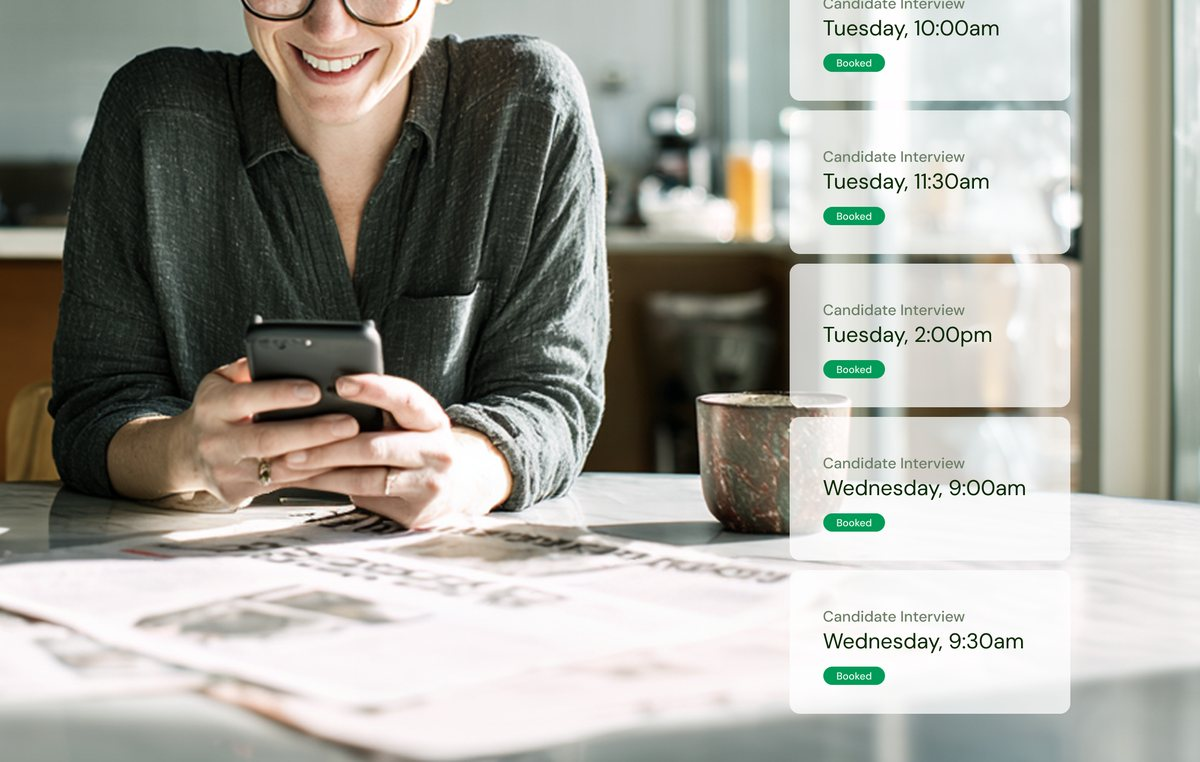
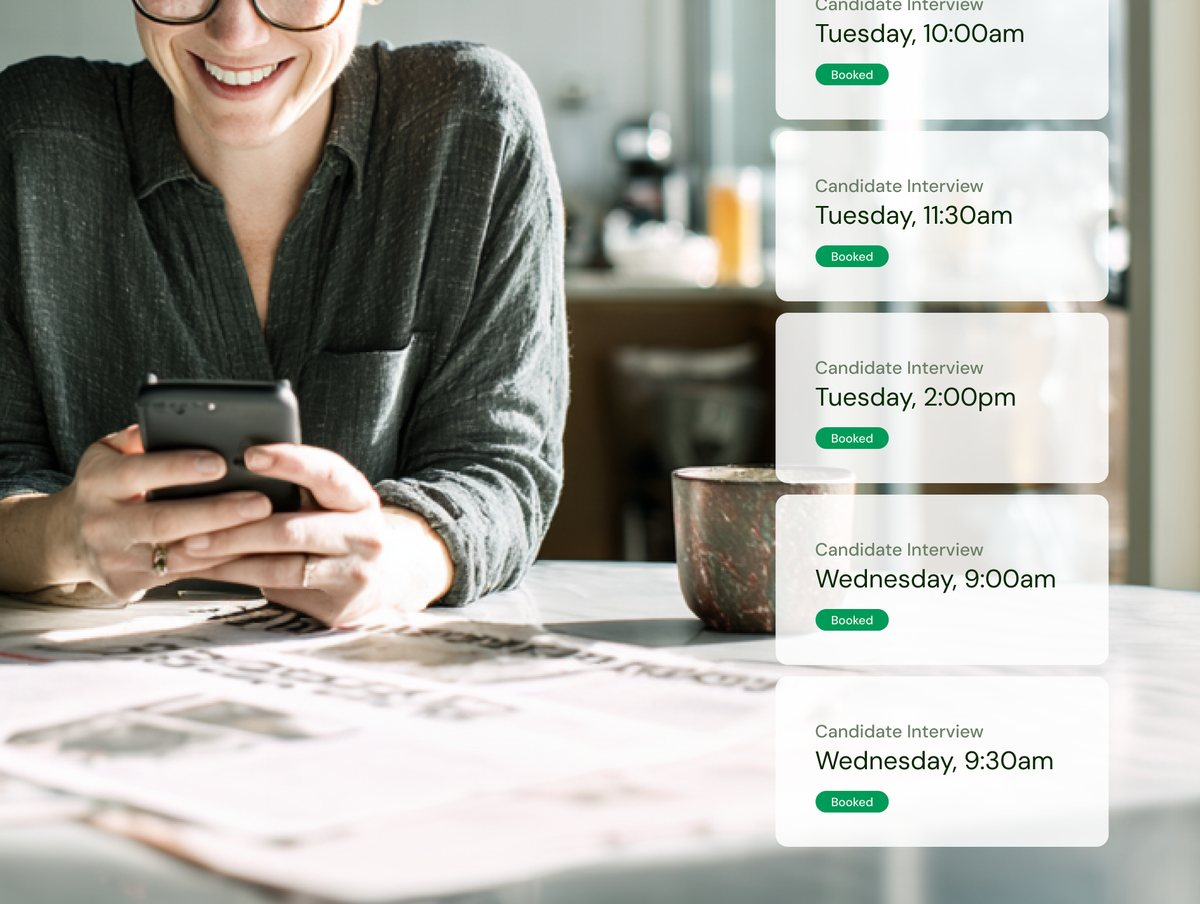
10-17 V4

diff --git a/alex.html b/alex.html
@@ -150,8 +150,8 @@
       <div class="cs-img has-img" style="aspect-ratio:2400/1440"><img src="/assets/alex-ai/one-sheet-digital-2400.jpg" alt="Alex one-sheet, digital edition" loading="lazy"></div>
     </div>
     <div class="cs-grid cs-grid-2 reveal">
-      <div class="cs-img has-img" style="aspect-ratio:1200/762"><img src="/assets/alex-ai/coordinator-hero.jpg" alt="Candidate smiling at her phone beside a stack of booked interview confirmations" loading="lazy"></div>
-      <div class="cs-img has-img" style="aspect-ratio:1200/762"><img src="/assets/alex-ai/verify-hero.jpg" alt="Candidate on her phone in an airport lounge beside a completed identity verification card" loading="lazy"></div>
+      <div class="cs-img has-img" style="aspect-ratio:1888/1422"><img src="/assets/alex-ai/coordinator-hero.jpg" alt="Candidate smiling at her phone beside a stack of booked interview confirmations" loading="lazy"></div>
+      <div class="cs-img has-img" style="aspect-ratio:1888/1422"><img src="/assets/alex-ai/verify-hero.jpg" alt="Candidate on her phone in an airport lounge beside a completed identity verification card" loading="lazy"></div>
     </div>
   </div>
 </section>

diff --git a/docs/build-log.md b/docs/build-log.md
@@ -7,6 +7,17 @@ re-upload, rather than retyping it.
 
 ---
 
+## 2026-10-17 (later) — Coordinator and Verify heroes replaced
+
+Max's narrower `Coordinator - hero_02.png` and `Verify - hero_02.png`
+(1888×1422) replace the pair at the bottom of Brand in the World. Saved over
+`coordinator-hero.jpg` / `verify-hero.jpg` at 1200×904, JPG q84 (~135 KB each).
+The pair's `aspect:` changed from 1200/762 to 1888/1422 so nothing crops.
+Measured: 588×443 per image at 1440 (was 588×373), 350×264 at 390, no
+horizontal overflow. Not pushed yet.
+
+---
+
 ## 2026-10-17 — Alex page: new hero animation, new art, Verify overlays
 
 All rebuilt and render-checked at 1440 and 390 (no overflow, no errors).
